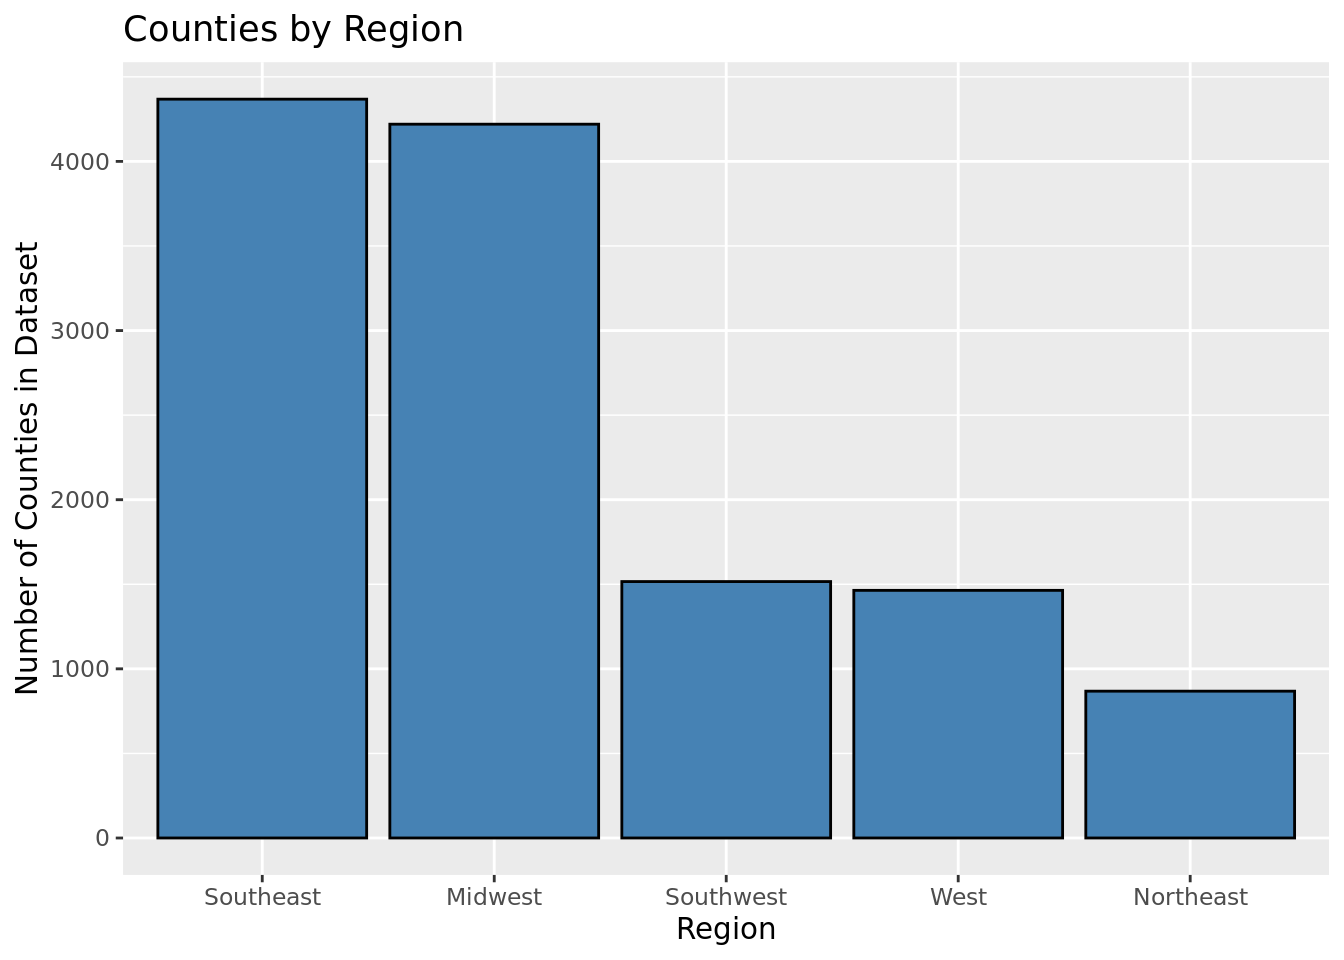
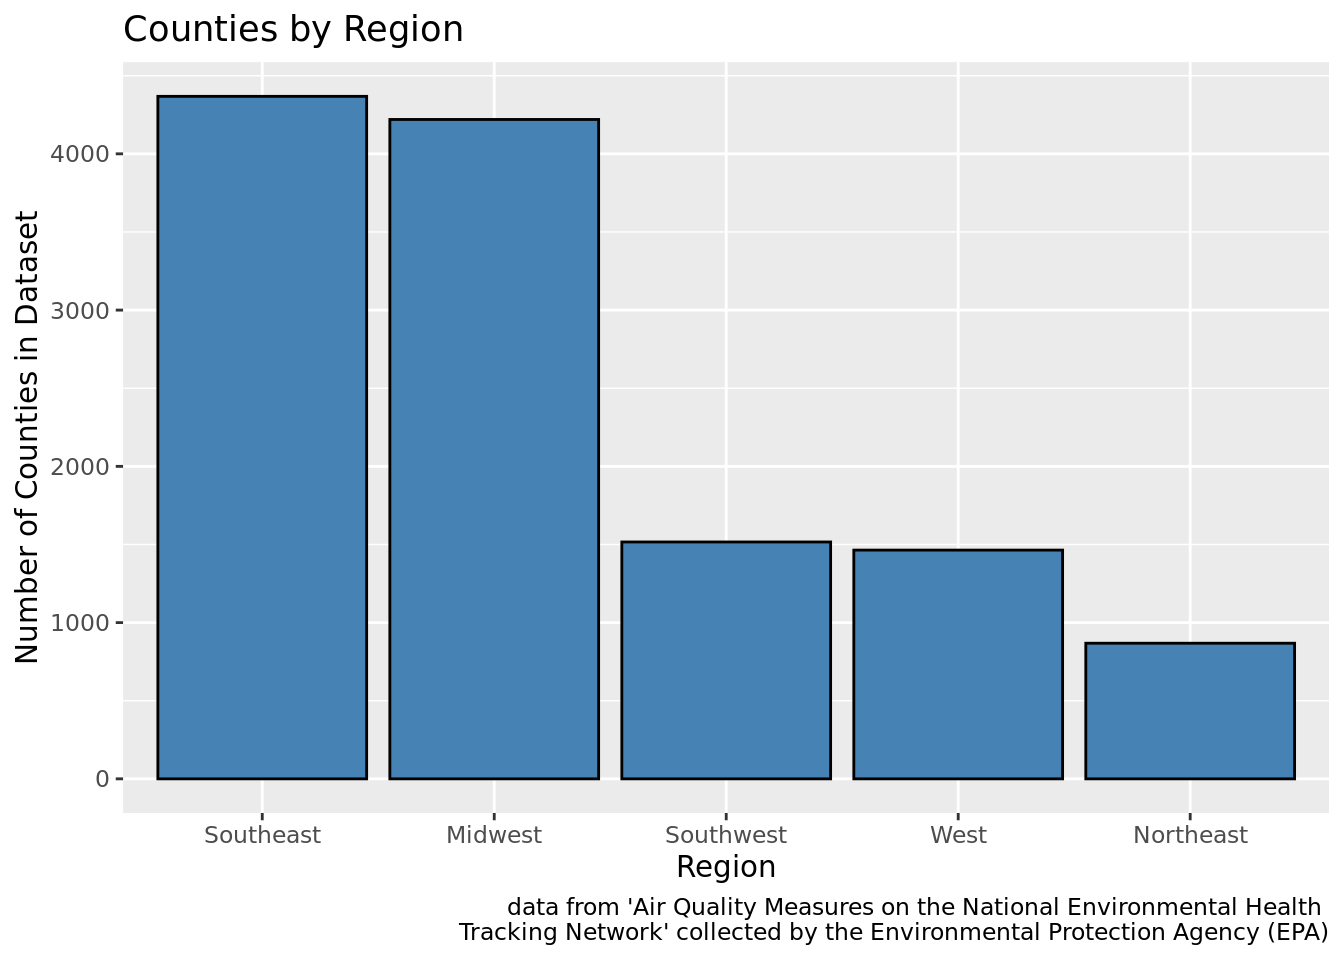
results sections revised

diff --git a/docs/report.html b/docs/report.html
@@ -195,7 +195,8 @@ code span.wa { color: #60a0b0; font-weight: bold; font-style: italic; } /* Warni
 <section id="introduction-and-data" class="level1">
 <h1>Introduction and Data</h1>
 <p>Our research is motivated by the desire to understand how air pollution differs between the various regions in the United States. We will be investigating the research question of how do air pollution levels differ between states from the West, Southwest, Midwest, Southeast, and Northeast as defined by the National Geographic Society of the mainland United States from the years 2008-2011?</p>
-<p>In order to achieve our goal, we will be performing statistical analysis on the annual average ambient concentrations of PM 2.5 in micrograms per cubic meter, based on seasonal averages and daily measurement (monitor and modeled data) measurement in the air pollution data set. We hypothesize that highly Northeast will have the most air pollution as it is the larger industrial region in the Untied States. The air pollution data set is obtained from the Center for Disease Control (CDC). The data was originally collected by the Environmental Health Tracking Network. This data provides values about air pollution collected from Air Quality Systems (AQS) from 4,000 monitoring stations across the United States. It is also important to note that the data was collected in a completely ethical manner as regulated by CDC guidelines.</p>
+<p>In order to achieve our goal, we will be performing statistical analysis on the annual average ambient concentrations of PM 2.5 in micrograms per cubic meter, based on seasonal averages and daily measurement (monitor and modeled data) in the air pollution data set. PM 2.5 refers to particles in the air that are 2.5 microns (0.001 mm) or less in width. Because particles in the PM 2.5 size range can travel through the respiratory tract and reach the lungs, they can cause short and long term health problems. As such, PM 2.5 concentration is commonly used as a measurement for air quality and air pollution.</p>
+<p>We hypothesize that highly Northeast will have the most air pollution as it is the largest industrial region in the Untied States. The air pollution data set is obtained from the Center for Disease Control (CDC). The data was originally collected by the Environmental Health Tracking Network. This data provides values about air pollution collected from Air Quality Systems (AQS) from 4,000 monitoring stations across the United States. It is also important to note that the data was collected in a completely ethical manner as regulated by CDC guidelines.</p>
 </section>
 <section id="methodology" class="level1">
 <h1>Methodology</h1>
@@ -228,7 +229,7 @@ code span.wa { color: #60a0b0; font-weight: bold; font-style: italic; } /* Warni
 ✖ dplyr::lag()      masks stats::lag()
 ✖ yardstick::spec() masks readr::spec()
 ✖ recipes::step()   masks stats::step()
-• Learn how to get started at https://www.tidymodels.org/start/</code></pre>
+• Use suppressPackageStartupMessages() to eliminate package startup messages</code></pre>
 </div>
 <div class="sourceCode cell-code" id="cb5"><pre class="sourceCode r code-with-copy"><code class="sourceCode r"><span id="cb5-1"><a href="#cb5-1" aria-hidden="true" tabindex="-1"></a>air_quality <span class="ot">&lt;-</span> <span class="fu">read_csv</span>(<span class="at">file =</span> <span class="st">"data/Air_Quality_Measures_on_the_National_Environmental_Health_Tracking_Network (1).csv"</span>)</span></code><button title="Copy to Clipboard" class="code-copy-button"><i class="bi"></i></button></pre></div>
 <div class="cell-output cell-output-stderr">
@@ -258,15 +259,16 @@ num (1): Value
 <span id="cb8-3"><a href="#cb8-3" aria-hidden="true" tabindex="-1"></a>  <span class="fu">geom_histogram</span>(<span class="at">binwidth =</span> <span class="fl">0.5</span>,</span>
 <span id="cb8-4"><a href="#cb8-4" aria-hidden="true" tabindex="-1"></a>                 <span class="at">fill =</span> <span class="st">'steelblue'</span>, </span>
 <span id="cb8-5"><a href="#cb8-5" aria-hidden="true" tabindex="-1"></a>                 <span class="at">color =</span> <span class="st">'black'</span>) <span class="sc">+</span></span>
-<span id="cb8-6"><a href="#cb8-6" aria-hidden="true" tabindex="-1"></a>  <span class="fu">labs</span>(<span class="at">x =</span> <span class="st">"Annual Average Concentration of PM 2.5 (micrograms per cubic meter"</span>,</span>
+<span id="cb8-6"><a href="#cb8-6" aria-hidden="true" tabindex="-1"></a>  <span class="fu">labs</span>(<span class="at">x =</span> <span class="st">"Annual Average Concentration of PM 2.5 (micrograms per cubic meter)"</span>,</span>
 <span id="cb8-7"><a href="#cb8-7" aria-hidden="true" tabindex="-1"></a>       <span class="at">y =</span> <span class="st">"Count"</span>,</span>
 <span id="cb8-8"><a href="#cb8-8" aria-hidden="true" tabindex="-1"></a>       <span class="at">title =</span> <span class="st">"Distribution of County Fine Particle Concentration"</span>,</span>
-<span id="cb8-9"><a href="#cb8-9" aria-hidden="true" tabindex="-1"></a>       <span class="at">subtitle =</span> <span class="st">"2008 - 2011"</span>)</span></code><button title="Copy to Clipboard" class="code-copy-button"><i class="bi"></i></button></pre></div>
+<span id="cb8-9"><a href="#cb8-9" aria-hidden="true" tabindex="-1"></a>       <span class="at">caption =</span> <span class="st">"data from 'Air Quality Measures on the National Environmental Health </span><span class="sc">\n</span><span class="st"> Tracking Network' collected by the Environmental Protection Agency (EPA)"</span>,</span>
+<span id="cb8-10"><a href="#cb8-10" aria-hidden="true" tabindex="-1"></a>       <span class="at">subtitle =</span> <span class="st">"2008 - 2011"</span>)</span></code><button title="Copy to Clipboard" class="code-copy-button"><i class="bi"></i></button></pre></div>
 <div class="cell-output-display">
 <p><img src="report_files/figure-html/histogram-1.png" class="img-fluid" width="672"></p>
 </div>
 </div>
-<p>The distribution of annual average PM 2.5 concentrations is right skewed, so there are a few counties with large outliers. In general, concentrations range between about 4 and 22 micrograms per cubic meter.</p>
+<p>The distribution of annual average PM 2.5 concentrations is right skewed, so there are a few counties with large outliers. In general, concentrations range between about 4 and 22 micrograms per cubic meter. The peak occurs at 10 micrograms per cubic meter, and the graph is slightly left-skewed.</p>
 <div class="cell">
 <div class="sourceCode cell-code" id="cb9"><pre class="sourceCode r code-with-copy"><code class="sourceCode r"><span id="cb9-1"><a href="#cb9-1" aria-hidden="true" tabindex="-1"></a>concentrations <span class="sc">|&gt;</span></span>
 <span id="cb9-2"><a href="#cb9-2" aria-hidden="true" tabindex="-1"></a>  <span class="fu">summarize</span>(<span class="at">mean_avg_concentration =</span> <span class="fu">mean</span>(avg_concentration))</span></code><button title="Copy to Clipboard" class="code-copy-button"><i class="bi"></i></button></pre></div>
@@ -315,7 +317,8 @@ num (1): Value
 <span id="cb12-3"><a href="#cb12-3" aria-hidden="true" tabindex="-1"></a>  <span class="fu">geom_bar</span>(<span class="at">fill =</span> <span class="st">'steelblue'</span>, <span class="at">color =</span> <span class="st">'black'</span>) <span class="sc">+</span></span>
 <span id="cb12-4"><a href="#cb12-4" aria-hidden="true" tabindex="-1"></a>  <span class="fu">labs</span>(<span class="at">x =</span> <span class="st">"Region"</span>,</span>
 <span id="cb12-5"><a href="#cb12-5" aria-hidden="true" tabindex="-1"></a>       <span class="at">y =</span> <span class="st">"Number of Counties in Dataset"</span>,</span>
-<span id="cb12-6"><a href="#cb12-6" aria-hidden="true" tabindex="-1"></a>       <span class="at">title =</span> <span class="st">"Counties by Region"</span>)</span></code><button title="Copy to Clipboard" class="code-copy-button"><i class="bi"></i></button></pre></div>
+<span id="cb12-6"><a href="#cb12-6" aria-hidden="true" tabindex="-1"></a>       <span class="at">caption =</span> <span class="st">"data from 'Air Quality Measures on the National Environmental Health </span><span class="sc">\n</span><span class="st"> Tracking Network' collected by the Environmental Protection Agency (EPA)"</span>,</span>
+<span id="cb12-7"><a href="#cb12-7" aria-hidden="true" tabindex="-1"></a>       <span class="at">title =</span> <span class="st">"Counties by Region"</span>)</span></code><button title="Copy to Clipboard" class="code-copy-button"><i class="bi"></i></button></pre></div>
 <div class="cell-output-display">
 <p><img src="report_files/figure-html/num-counties-1.png" class="img-fluid" width="672"></p>
 </div>
@@ -338,12 +341,41 @@ num (1): Value
 </div>
 </div>
 <p>The Southeast region has the greatest median concentration of PM 2.5 particles (10.6 micrograms per cubic meter), while the West region has the lowest (6.97 micrograms per cubic meter).</p>
+<div class="cell">
+<div class="sourceCode cell-code" id="cb15"><pre class="sourceCode r code-with-copy"><code class="sourceCode r"><span id="cb15-1"><a href="#cb15-1" aria-hidden="true" tabindex="-1"></a>concentrations <span class="sc">|&gt;</span></span>
+<span id="cb15-2"><a href="#cb15-2" aria-hidden="true" tabindex="-1"></a>  <span class="fu">ggplot</span>(<span class="fu">aes</span>(<span class="at">x =</span> avg_concentration, <span class="at">y =</span> Region)) <span class="sc">+</span></span>
+<span id="cb15-3"><a href="#cb15-3" aria-hidden="true" tabindex="-1"></a>  <span class="fu">geom_boxplot</span>(<span class="at">fill =</span> <span class="st">'steelblue'</span>) <span class="sc">+</span></span>
+<span id="cb15-4"><a href="#cb15-4" aria-hidden="true" tabindex="-1"></a>  <span class="fu">labs</span>(<span class="at">x =</span> <span class="st">"Annual Average Concentration of PM 2.5 (micrograms per cubic meter)"</span>,</span>
+<span id="cb15-5"><a href="#cb15-5" aria-hidden="true" tabindex="-1"></a>       <span class="at">y =</span> <span class="st">"Region"</span>,</span>
+<span id="cb15-6"><a href="#cb15-6" aria-hidden="true" tabindex="-1"></a>       <span class="at">caption =</span> <span class="st">"data from 'Air Quality Measures on the National Environmental Health </span><span class="sc">\n</span><span class="st"> Tracking Network' collected by the Environmental Protection Agency (EPA)"</span>,</span>
+<span id="cb15-7"><a href="#cb15-7" aria-hidden="true" tabindex="-1"></a>       <span class="at">title =</span> <span class="st">"County Fine Particle Concentration by Region"</span>)</span></code><button title="Copy to Clipboard" class="code-copy-button"><i class="bi"></i></button></pre></div>
+<div class="cell-output-display">
+<p><img src="report_files/figure-html/unnamed-chunk-8-1.png" class="img-fluid" width="672"></p>
+</div>
+</div>
+<p>Looking at the distributions of average PM 2.5 concentration by region, it is evident that there are many counties in the West region with high average PM 2.5 concentrations. In fact, several of the counties with the greatest average PM 2.5 concentrations were from the West region.</p>
+<div class="cell">
+<div class="sourceCode cell-code" id="cb16"><pre class="sourceCode r code-with-copy"><code class="sourceCode r"><span id="cb16-1"><a href="#cb16-1" aria-hidden="true" tabindex="-1"></a><span class="fu">set.seed</span>(<span class="dv">123</span>)</span>
+<span id="cb16-2"><a href="#cb16-2" aria-hidden="true" tabindex="-1"></a></span>
+<span id="cb16-3"><a href="#cb16-3" aria-hidden="true" tabindex="-1"></a>boot_df <span class="ot">&lt;-</span> concentrations <span class="sc">|&gt;</span></span>
+<span id="cb16-4"><a href="#cb16-4" aria-hidden="true" tabindex="-1"></a>  <span class="fu">filter</span>(region <span class="sc">==</span> <span class="st">""</span>) <span class="sc">|&gt;</span></span>
+<span id="cb16-5"><a href="#cb16-5" aria-hidden="true" tabindex="-1"></a>  <span class="fu">specify</span>(<span class="at">response =</span> avg_concentration) <span class="sc">|&gt;</span></span>
+<span id="cb16-6"><a href="#cb16-6" aria-hidden="true" tabindex="-1"></a>  <span class="fu">generate</span>(<span class="at">reps =</span> <span class="dv">5000</span>, <span class="at">type =</span> <span class="st">"bootstrap"</span>) <span class="sc">|&gt;</span></span>
+<span id="cb16-7"><a href="#cb16-7" aria-hidden="true" tabindex="-1"></a>  <span class="fu">calculate</span>(<span class="at">stat =</span> <span class="st">"median"</span>)</span>
+<span id="cb16-8"><a href="#cb16-8" aria-hidden="true" tabindex="-1"></a></span>
+<span id="cb16-9"><a href="#cb16-9" aria-hidden="true" tabindex="-1"></a>boot_df <span class="sc">|&gt;</span></span>
+<span id="cb16-10"><a href="#cb16-10" aria-hidden="true" tabindex="-1"></a>  <span class="fu">summarize</span>(<span class="at">lower =</span> <span class="fu">quantile</span>(stat, <span class="fl">0.025</span>),</span>
+<span id="cb16-11"><a href="#cb16-11" aria-hidden="true" tabindex="-1"></a>            <span class="at">upper =</span> <span class="fu">quantile</span>(stat, <span class="fl">0.975</span>))</span></code><button title="Copy to Clipboard" class="code-copy-button"><i class="bi"></i></button></pre></div>
+</div>
 <ul>
 <li>Comparison: We’ll compare the results of our air pollution survey with Census population data, population increase, total land area, number of firms, per capita income, metropolitan area (boolean), and population over 65</li>
 </ul>
 </section>
 <section id="results" class="level1">
 <h1>Results</h1>
+<p>The data analysis and visualization techniques we used included creating a histogram was created to make meaning of the mean annual average concentration of fine particle concentration calculated to ensure the mean calculated is significant for most data points which is true as the data peaks near the 9.64 mean value calculated. We also created a counties by region graph to understand the statistical significance of the concentration data calculated for each region. Since the number of counties is the greatest for the Southeast and the Midwest region, the results of these two regions resembles have the highest chance of resembling closest to reality making them more statistically significant than the regions Southwest, West and Northeast.</p>
+<p>Our data analysis allowed us to find that overall the median annual average PM 2.5 concentration was 9.64 micrograms per cubic meter. Then, the median annual average PM 2.5 concentration was calculated for each region. Southeast had the largest median annual average PM 2.5 concentration with a value of 10.6 micrograms per cubic meter followed by the Midwest with 9.6 micrograms per cubic meter, then Northeast with 9.3 micrograms per cubic meter, Southwest with 8.3 micrograms per cubic meter, and West with 7.0 micrograms per cubic meter. A visualization of a histogram visually displays how the median differs between the regions. It is important to note that several of the regions have outliers especially the West region.</p>
+<p>Based on the visualizations and summary statistics, we came to the conclusion that the Southeast had the highest median annual average PM 2.5 concentration while the West had the lowest median annual average PM 2.5 concentration compared to the five main regions within the United States.</p>
 
 
 </section>
